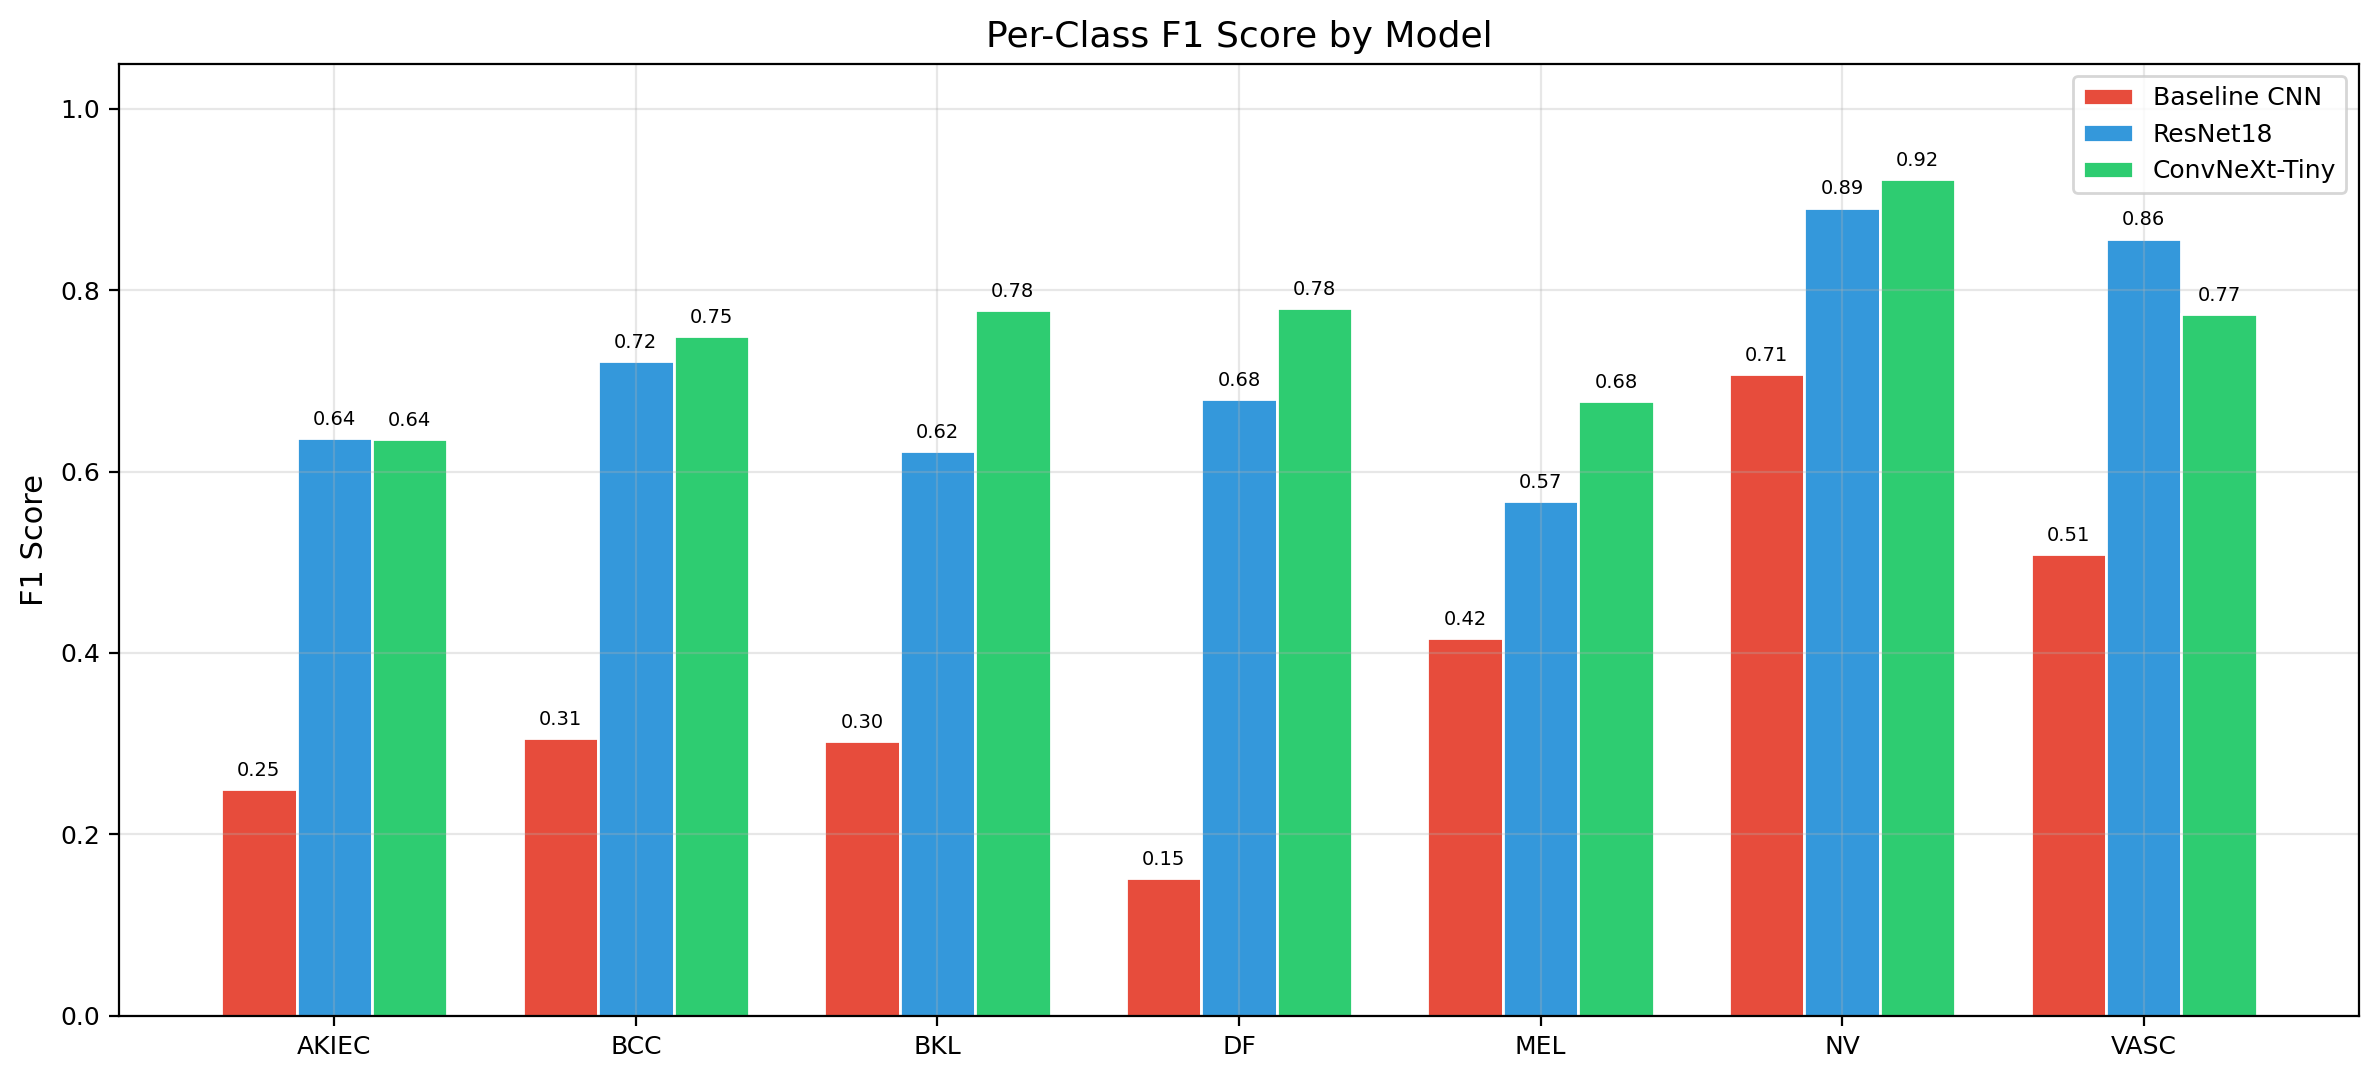
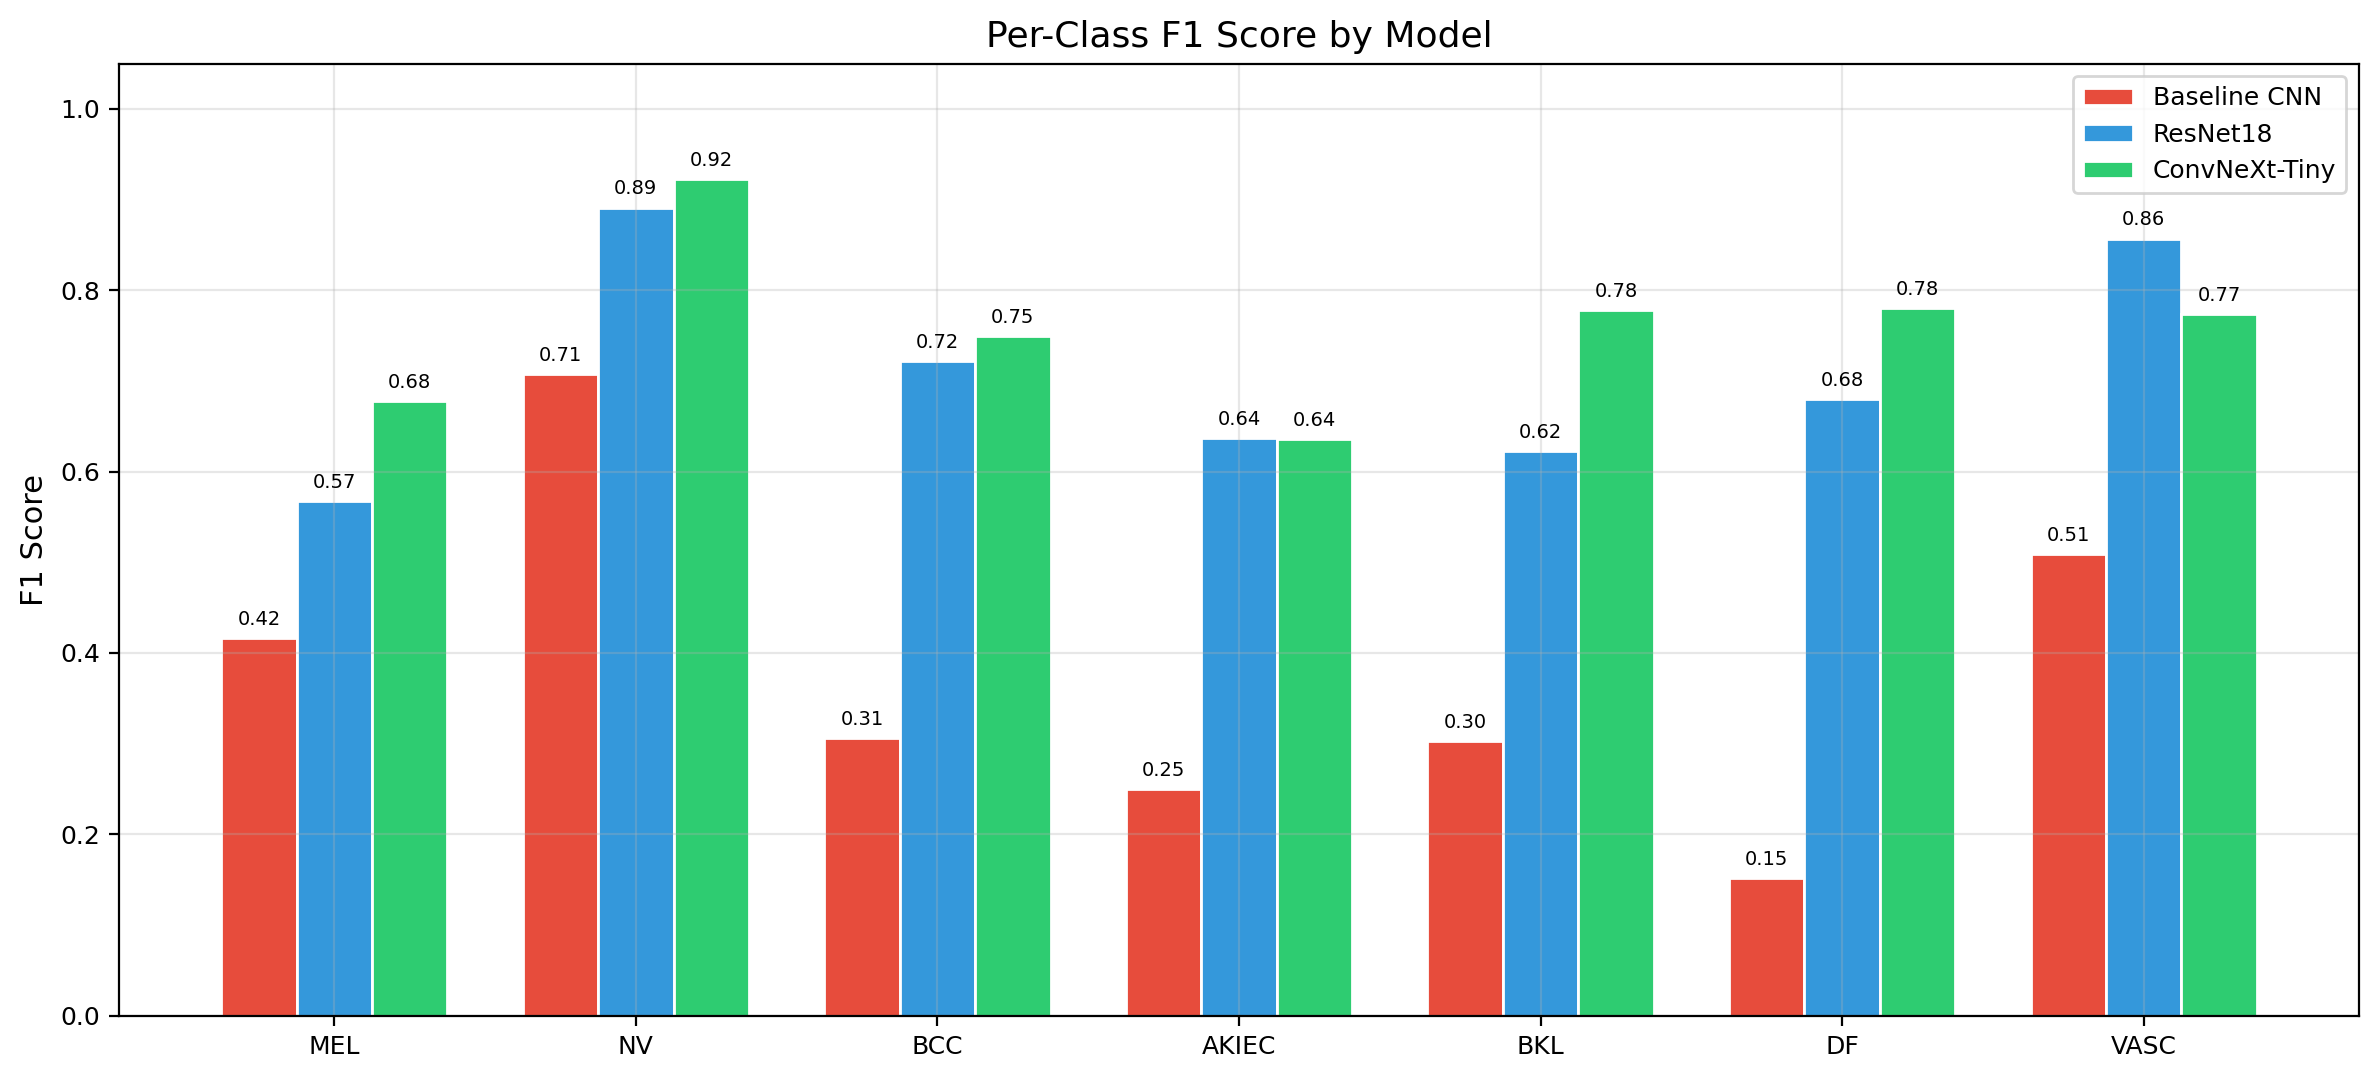
chore: sync report template & class order with main branch

diff --git a/src/ham_in_dl/interpretation/visualization.py b/src/ham_in_dl/interpretation/visualization.py
@@ -11,7 +11,7 @@ from PIL import Image
 # ── Shared style constants ──────────────────────────────────────────────
 MODEL_COLORS = {"baseline_cnn": "#E74C3C", "resnet18": "#3498DB", "convnext_tiny": "#2ECC71"}
 MODEL_LABELS = {"baseline_cnn": "Baseline CNN", "resnet18": "ResNet18", "convnext_tiny": "ConvNeXt-Tiny"}
-CLASS_NAMES = ["AKIEC", "BCC", "BKL", "DF", "MEL", "NV", "VASC"]
+CLASS_NAMES = ["MEL", "NV", "BCC", "AKIEC", "BKL", "DF", "VASC"]
 
 
 def _setup_style():

diff --git a/report/final_report_template.md b/report/final_report_template.md
@@ -11,7 +11,8 @@
 ## 3 实验设计与模型
 - Baseline CNN：简单卷积网络
 - 迁移学习模型：ResNet18（ImageNet 预训练）
-- 分割策略：`Stratified train/val split`（按 label），外部 test 仅在最终报告时使用
+- 迁移学习模型：ConvNeXt-Tiny（ImageNet 预训练）
+- 分割策略：`Lesion-level stratified group split`（按 lesion_id 分组，确保同一病灶不出现在 train/val 两侧）
 - 类别不平衡处理：class weights
 
 ## 4 结果与分析
